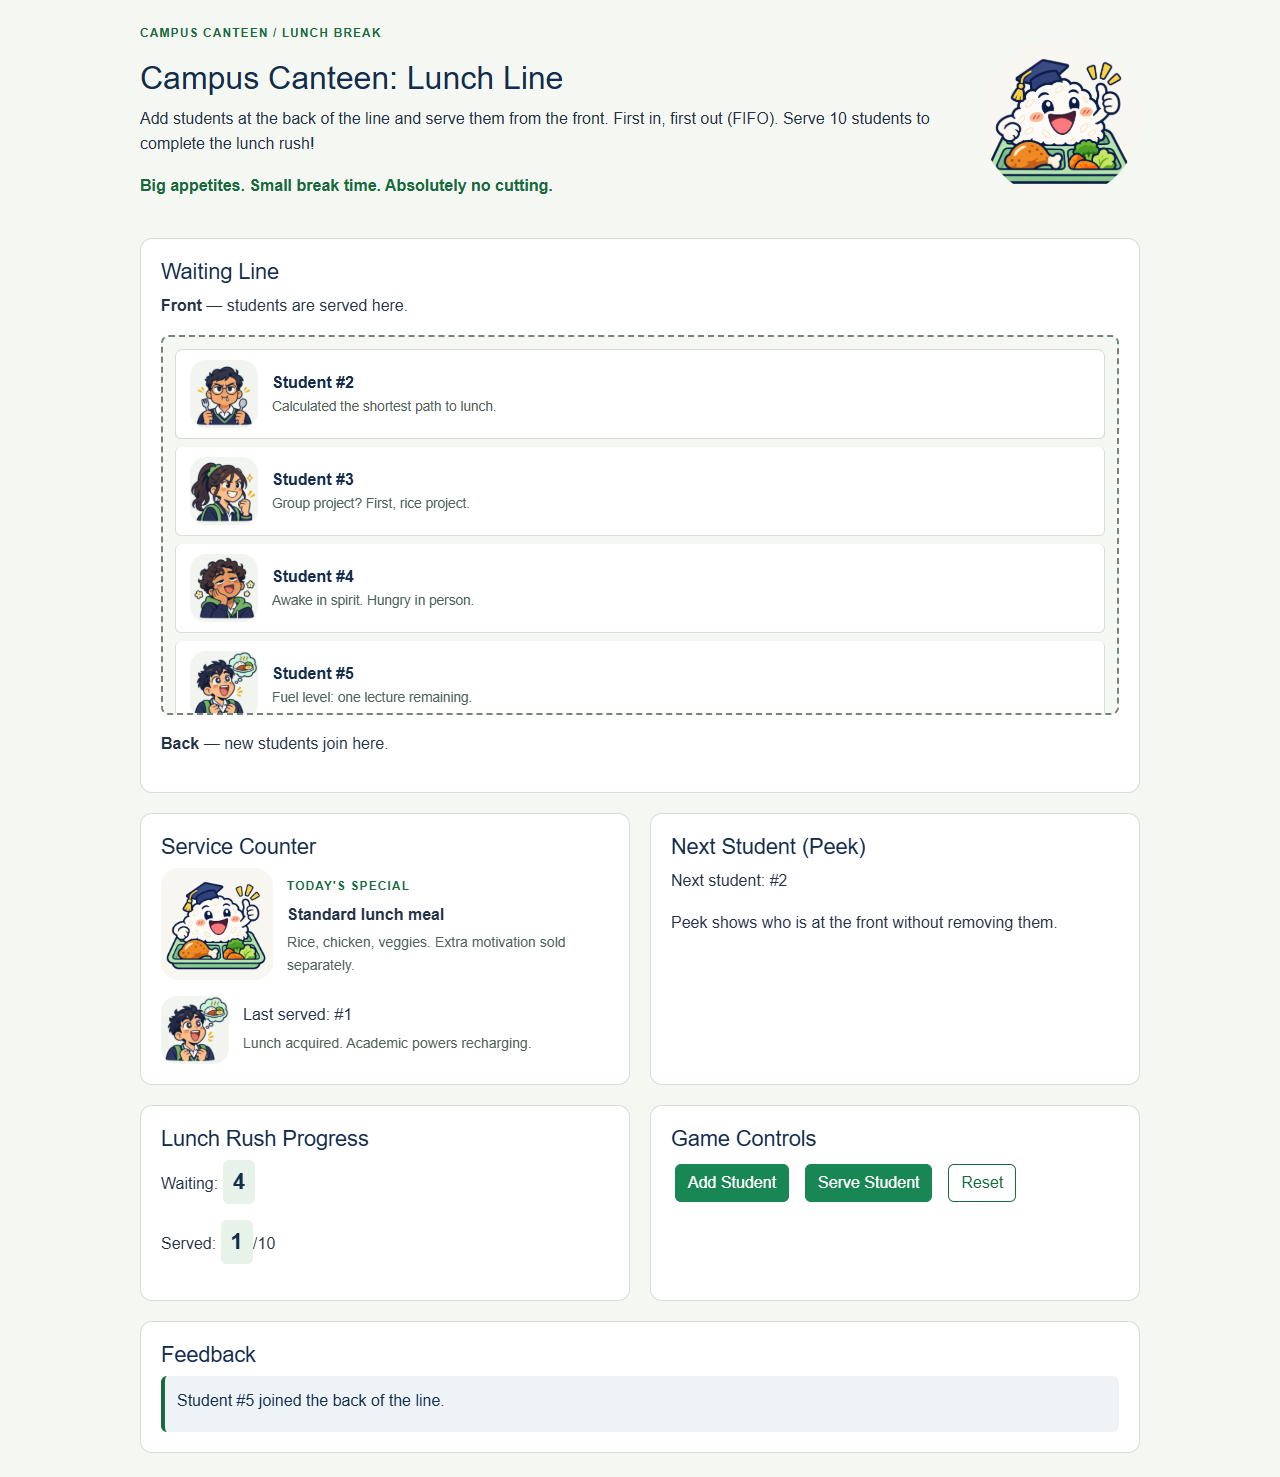
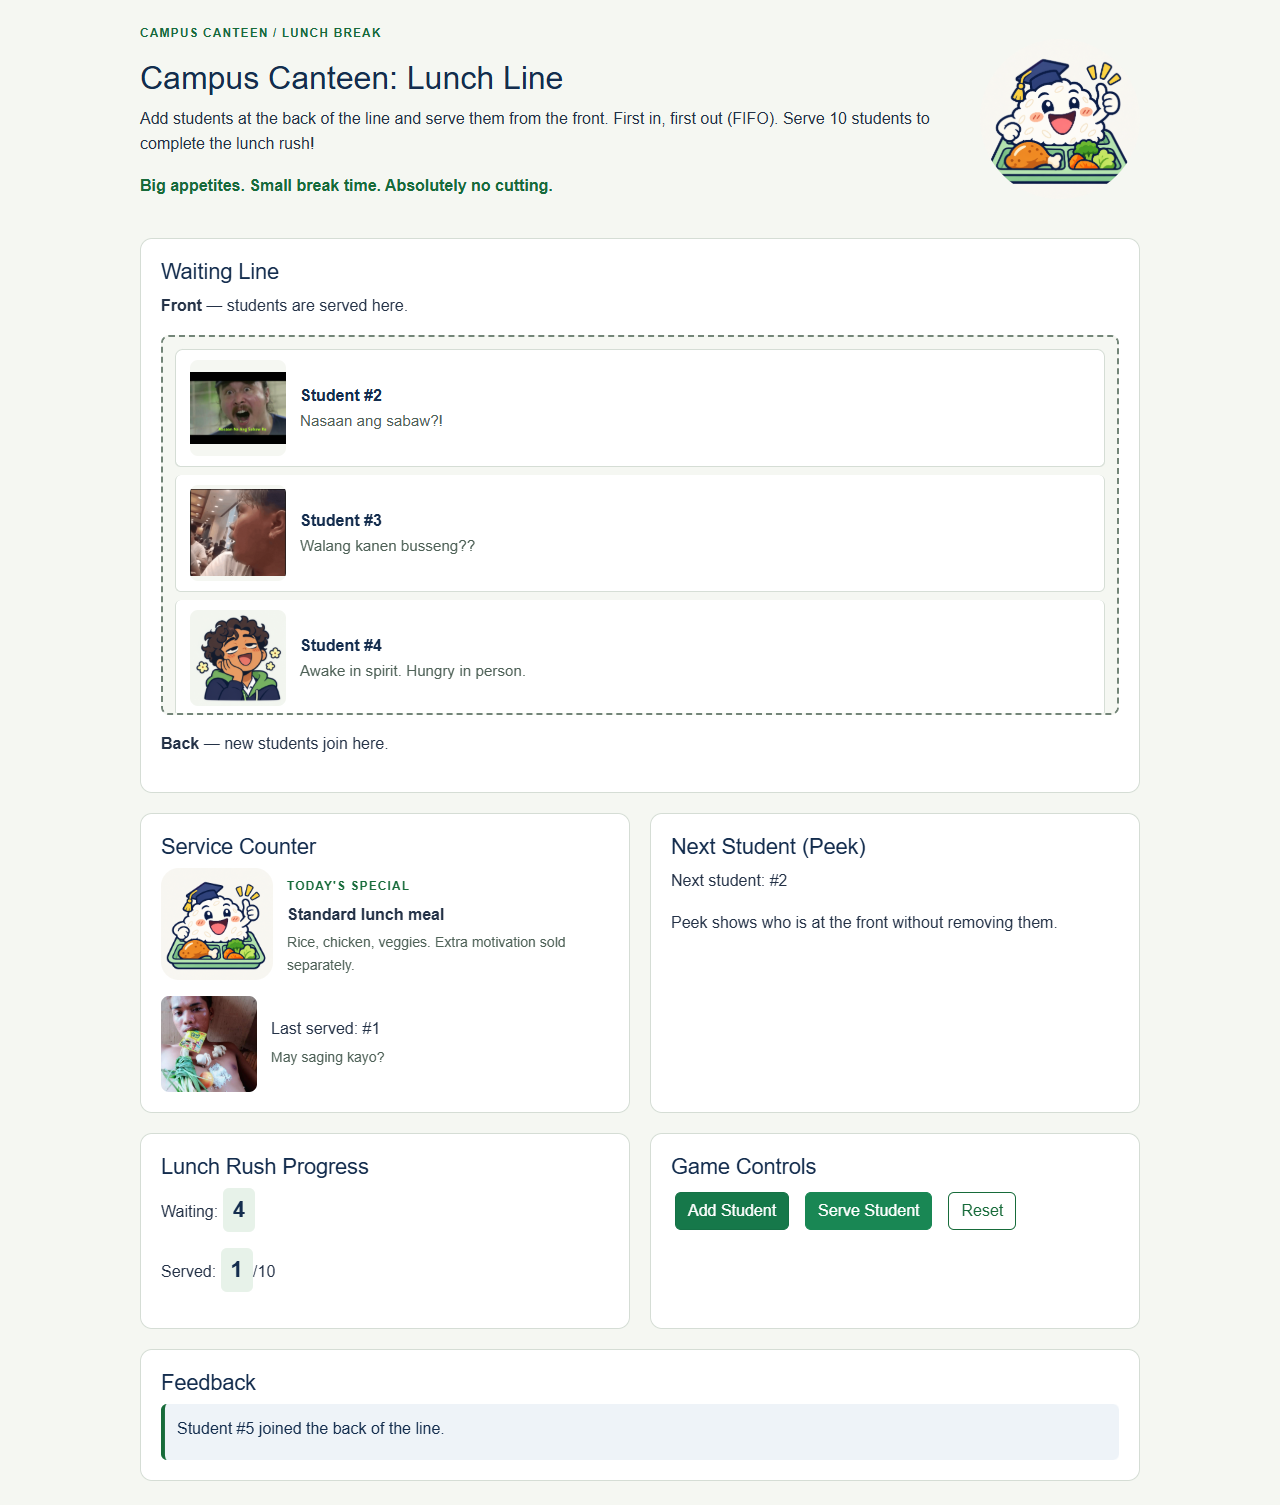
Use supplied member memes and exact lunch dialogue

diff --git a/docs/project-report.html b/docs/project-report.html
@@ -11,7 +11,7 @@ code{font-size:10pt}img{display:block;max-width:100%;max-height:200mm;margin:aut
 </style></head><body>
 <section class="page"><h1>Campus Canteen:<br>Lunch Line</h1><p>CC104 — Data Structures and Algorithms<br>Course Term Project</p>
 <p><strong>Team:</strong> Jared, Eric, Fred, Russ</p>
-<h2>Objective and launch</h2><p>Serve 10 students in arrival order using a first-in, first-out queue. The interface uses a light background, navy headings, green controls, numbered cartoon student cards, a cheerful rice mascot, and one standard lunch meal.</p>
+<h2>Objective and launch</h2><p>Serve 10 students in arrival order using a first-in, first-out queue. The interface uses a light background, navy headings, green controls, numbered meme student cards, a cheerful rice mascot, and one standard lunch meal.</p>
 <p>Extract the complete repository, then open <code>index.html</code>. Keep its css and js folders in place. No server or internet is required. Refresh starts a new game.</p>
 <h2>Gameplay</h2><ol><li>Add Student appends a uniquely numbered customer to the back.</li><li>Next Student displays the front customer without removing them.</li><li>Serve Student removes the front customer and updates Last served and both counters.</li><li>Serving an empty queue displays feedback without changing data.</li><li>After 10 successful serves, success appears and Add/Serve stop. Remaining students stay visible.</li><li>Reset clears the queue, last customer, counts, and messages, and restarts numbering at 1.</li></ol>
 <h2>Technology</h2><p>HTML provides structure; local Bootstrap supplies responsive utilities and component styles; custom CSS supplies the school theme. JavaScript implements queue operations. Local jQuery handles clicks and interface updates. GitHub preserves shared source and reviews.</p>
@@ -32,7 +32,7 @@ code{font-size:10pt}img{display:block;max-width:100%;max-height:200mm;margin:aut
 <section class="page"><h2>Gameplay screenshot</h2><p>After serving #1 and adding another student, arrival order and Last served remain consistent.</p><img src="screenshots/playing-1280.png" alt="Actual game showing students 2 through 5 waiting and student 1 last served"></section>
 <section class="page"><h2>Completion screenshot</h2><p>Ten served, two still waiting: Add and Serve are disabled until Reset.</p><img src="screenshots/success.png" alt="Actual game at 10 served with success feedback"></section>
 <section class="page"><h2>Verification and development</h2><p>Automated browser checks passed at 1280px and 375px using offline file launch: arrival order, repeated peek, empty-queue handling, FIFO serving, counts, completion guards, Reset, and refresh. No HTTP requests, console errors, or horizontal page overflow were observed. See <code>test-results.md</code> for the full record.</p>
-<h3>Local artwork</h3><p>AI-generated student portraits and a rice mascot are bundled in assets. Portraits repeat by student number and follow the served student to the counter. Captions are cosmetic; queue numbers and FIFO behavior remain unchanged. The exact generation prompts are recorded in assets/README.md.</p><h3>Development problem and solution</h3><p>The course calls for library integration and offline launch. Bootstrap and jQuery are stored locally and loaded before dependent custom code. Offline checks verify the game does not rely on an internet connection.</p>
+<h3>Local artwork</h3><p>Three user-supplied meme portraits, a retained cartoon portrait, and an AI-generated rice mascot are bundled in assets. Portraits repeat by student number and follow the served student to the counter. Captions are cosmetic; queue numbers and FIFO behavior remain unchanged. The exact generation prompts are recorded in assets/README.md.</p><h3>Development problem and solution</h3><p>The course calls for library integration and offline launch. Bootstrap and jQuery are stored locally and loaded before dependent custom code. Offline checks verify the game does not rely on an internet connection.</p>
 <h3>Contributions and AI assistance</h3><p>Reported contributions: Jared — HTML and Add integration; Eric — styling and local libraries; Fred — initialization and enqueue; Russ — dequeue. AI assistance completed final Serve/Reset integration, feedback, checks, and documentation. Human review of these final additions is still required; this report does not claim it occurred.</p>
 <h3>Demonstration plan</h3><ul><li>Jared: objective, HTML areas, and Add event handler.</li><li>Eric: custom CSS, Bootstrap, responsive and offline behavior.</li><li>Fred: array objects, enqueue, numbering, and peek.</li><li>Russ: dequeue, returned customer, completion, and Reset.</li></ul>
 <p>Use the accompanying demo guide for a 10–15 minute rehearsal. Everyone should explain FIFO, return values, invalid-action guards, and their own code.</p>

diff --git a/css/style.css b/css/style.css
@@ -185,3 +185,18 @@ button:disabled {
   .student-card { gap: 10px; padding: 10px; }
   .student-portrait { width: 54px; height: 54px; flex-basis: 54px; }
 }
+
+/* User-supplied meme photos are displayed whole; original files are unedited. */
+.portrait-0, .portrait-1, .portrait-2 {
+  background-size: contain;
+  background-position: center;
+  background-repeat: no-repeat;
+}
+.portrait-0 { background-image: url('../assets/member-1-meme.jpg'); }
+.portrait-1 { background-image: url('../assets/member-2-meme.jpg'); }
+.portrait-2 { background-image: url('../assets/member-3-meme.png'); }
+.student-portrait { width: 96px; height: 96px; flex-basis: 96px; border-radius: 8px; }
+.student-mood { font-size: .95rem; }
+@media (max-width: 575px) {
+  .student-portrait { width: 76px; height: 76px; flex-basis: 76px; }
+}

diff --git a/js/game.js b/js/game.js
@@ -6,9 +6,9 @@ const SERVED_TARGET = 10;
 
 // Cosmetic profiles repeat; the unique queue number still identifies each student.
 const STUDENT_MOODS = [
-  "Fuel level: one lecture remaining.",
-  "Calculated the shortest path to lunch.",
-  "Group project? First, rice project.",
+  "May saging kayo?",
+  "Nasaan ang sabaw?!",
+  "Walang kanen busseng??",
   "Awake in spirit. Hungry in person."
 ];
 
@@ -91,7 +91,7 @@ function updateDisplay() {
   }
   $("#served-joke").text(lastServedCustomer === null
     ? "The tray is ready. The students? Debatable."
-    : "Lunch acquired. Academic powers recharging.");
+    : STUDENT_MOODS[(lastServedCustomer.number - 1) % STUDENT_MOODS.length]);
 
   const completed = servedCount >= SERVED_TARGET;
   $("#add-student, #serve-student").prop("disabled", completed);

diff --git a/assets/README.md b/assets/README.md
@@ -1,13 +1,22 @@
 # Campus Canteen artwork
 
-Created with the built-in image-generation tool for this project. These locally bundled images work offline. No third-party character identities or external image URLs are used.
+The first three member profiles use user-supplied meme photos copied without alteration. The fourth profile and lunch mascot retain the earlier AI-generated artwork. All files are bundled locally for offline play.
 
 - `student-portraits.png`: one 2x2 atlas, displayed with CSS background positions. Portrait choice is `(customer.number - 1) % 4`, so the same student keeps the same portrait. Repeated portraits do not change unique queue numbers or FIFO order.
 - `lunch-mascot.png`: rice graduate on a standard meal tray, used in the header and service counter.
 
 The art and humorous captions are cosmetic. Required controls, feedback, and numbered identities remain readable. Portraits are decorative for assistive technology; student numbers provide identification.
 
-## Exact generation prompts
+## User-supplied member profiles
+
+1. `member-1-meme.jpg`, from the supplied bisaya.jpg: "May saging kayo?"
+2. `member-2-meme.jpg`, from the supplied sabaw.jpg: "Nasaan ang sabaw?!"
+3. `member-3-meme.png`, from the supplied clipboard image: "Walang kanen busseng??"
+4. Original sleepy cartoon profile retained because no replacement was supplied.
+
+The requested dialogue is displayed as HTML text, including at Last served. Text already present inside an image is left intact. These are meme representations selected by the user, not claims that the pictured people are team members. Source images were supplied by the user; they were not generated by this project, and this record does not assert ownership of them.
+
+## Original generation prompts
 
 ### Student atlas
 

diff --git a/README.md b/README.md
@@ -91,6 +91,6 @@ The working game and supporting files are prepared. The team still needs to rehe
 
 ## Cartoon assets and lunch-break humor
 
-Four illustrated student portraits and a cheerful rice-graduate mascot add personality while keeping the original navy/green school theme. Portraits cycle by student number and follow the student into Last served; they do not affect queue priority or the one-meal rule. Local files, exact built-in image-generation prompts, and usage notes are documented in `assets/README.md`.
+Three user-supplied meme portraits, one retained cartoon portrait, and a cheerful rice-graduate mascot add personality while keeping the original navy/green school theme. Portraits cycle by student number and follow the student into Last served; they do not affect queue priority or the one-meal rule. Local files, exact built-in image-generation prompts, and usage notes are documented in `assets/README.md`.
 
-`portraitClass(customer)` selects one quadrant of the student atlas. `STUDENT_MOODS` supplies four cosmetic captions. `updateDisplay()` renders these alongside the original student numbers and restores the empty scene after Reset. The queue functions and success target are unchanged.
+`portraitClass(customer)` selects a member profile: three local meme photos or the fourth quadrant of the original cartoon atlas. `STUDENT_MOODS` supplies four cosmetic captions. `updateDisplay()` renders these alongside the original student numbers and restores the empty scene after Reset. The queue functions and success target are unchanged.

diff --git a/docs/test-results.md b/docs/test-results.md
@@ -29,3 +29,6 @@ Earlier HTML, styling, enqueue, and dequeue reviews were reported by the user in
 ## Asset integration verification
 
 The full offline gameplay checks were repeated after the artwork update at 1280px and 375px: all passed. Both local PNG assets load without network access. Four cards retain #1–#4 arrival order with four portrait elements; empty-state humor hides while the queue is populated; serving #1 displays portrait 0 at the counter. The assistant visually inspected wide and narrow screenshots. Images and captions do not change FIFO, numbering, completion, or reset logic.
+
+## Member meme update
+The full offline suite passed at both widths after replacing profiles 1-3. Checks also verify all three supplied photos load, each profile uses its expected file, exact dialogue is rendered, and serving student 1 carries the matching line to the counter. The narrow-screen meme lineup was visually inspected.
